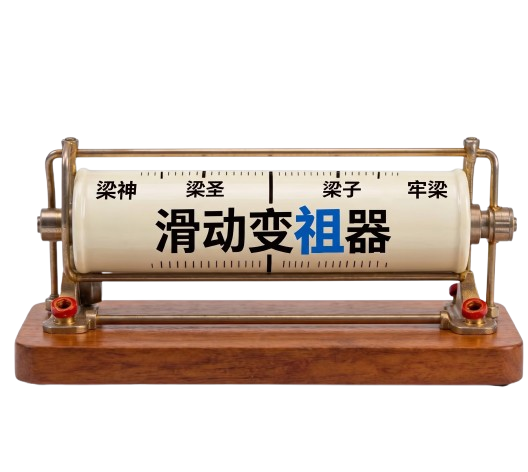
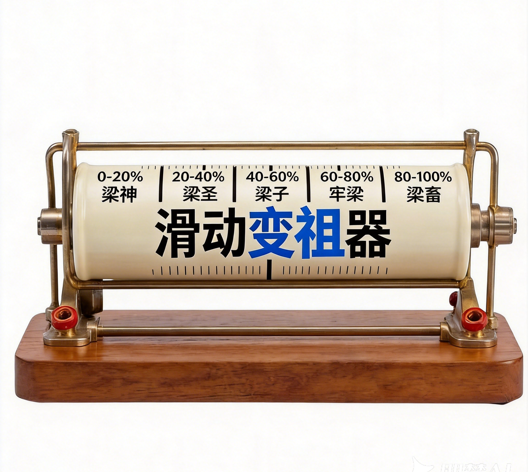
feat: 新增梁畜档位并更新背景图
- slider.js: 档位扩展为五档，梁畜垫底(80-100%)
- slider.test.js: 同步更新五档测试用例
- README.md: 更新档位列表
- img/background.png: 替换为实物图版本

Changed region(s): [[0.0, 0.2669, 1.0, 0.8602]]

diff --git a/slider.test.js b/slider.test.js
@@ -27,18 +27,20 @@ test('getPercentage 将旋钮位置转换为 0 到 100 的百分比', () => {
   assert.equal(getPercentage(300, 40, 300), 100);
 });
 
-test('getLiangStatus 将祖率映射到四种梁氏状态', () => {
+test('getLiangStatus 将祖率映射到五种梁氏状态', () => {
   assert.equal(getLiangStatus(0), '梁神');
-  assert.equal(getLiangStatus(25), '梁圣');
-  assert.equal(getLiangStatus(49), '梁圣');
-  assert.equal(getLiangStatus(50), '梁子');
-  assert.equal(getLiangStatus(74), '梁子');
-  assert.equal(getLiangStatus(75), '牢梁');
-  assert.equal(getLiangStatus(100), '牢梁');
+  assert.equal(getLiangStatus(20), '梁圣');
+  assert.equal(getLiangStatus(39), '梁圣');
+  assert.equal(getLiangStatus(40), '梁子');
+  assert.equal(getLiangStatus(59), '梁子');
+  assert.equal(getLiangStatus(60), '牢梁');
+  assert.equal(getLiangStatus(79), '牢梁');
+  assert.equal(getLiangStatus(80), '梁畜');
+  assert.equal(getLiangStatus(100), '梁畜');
 });
 
 test('getStatusMessage 生成包含祖率和梁氏状态的提示', () => {
-  assert.equal(getStatusMessage(42, '正在调整祖率'), '正在调整祖率：42% · 梁圣');
+  assert.equal(getStatusMessage(42, '正在调整祖率'), '正在调整祖率：42% · 梁子');
 });
 
 test('preventNativeDrag 禁止图片触发浏览器原生拖拽', () => {

diff --git a/slider.js b/slider.js
@@ -26,19 +26,23 @@ function getPercentage(left, start, end) {
 function getLiangStatus(percentage) {
   const normalized = clamp(Number(percentage) || 0, 0, 100);
 
-  if (normalized < 25) {
+  if (normalized < 20) {
     return '梁神';
   }
 
-  if (normalized < 50) {
+  if (normalized < 40) {
     return '梁圣';
   }
 
-  if (normalized < 75) {
+  if (normalized < 60) {
     return '梁子';
   }
 
-  return '牢梁';
+  if (normalized < 80) {
+    return '牢梁';
+  }
+
+  return '梁畜';
 }
 
 function getStatusMessage(percentage, prefix = '当前祖率') {

diff --git a/README.md b/README.md
@@ -12,6 +12,7 @@
 - 梁圣
 - 梁子
 - 牢梁
+- 梁畜（垫底）
 
 ## 免责声明
 
